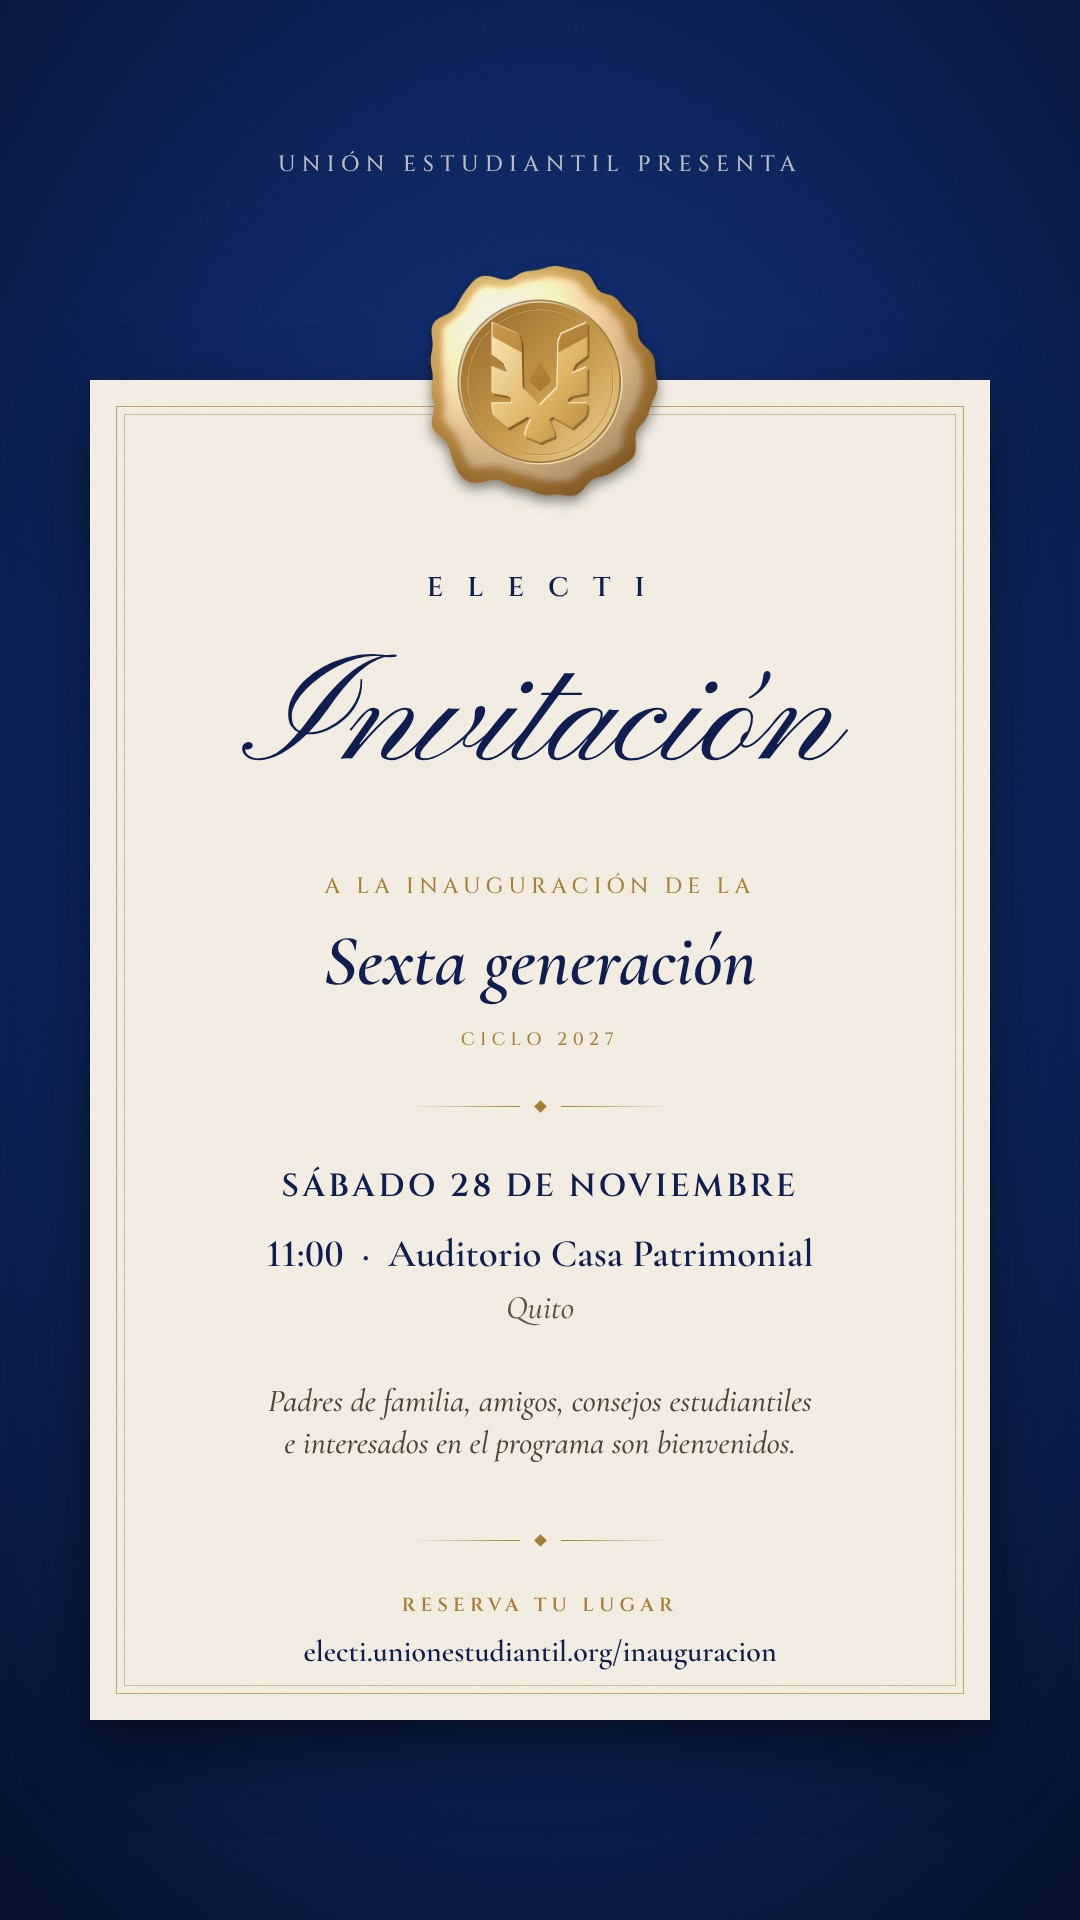
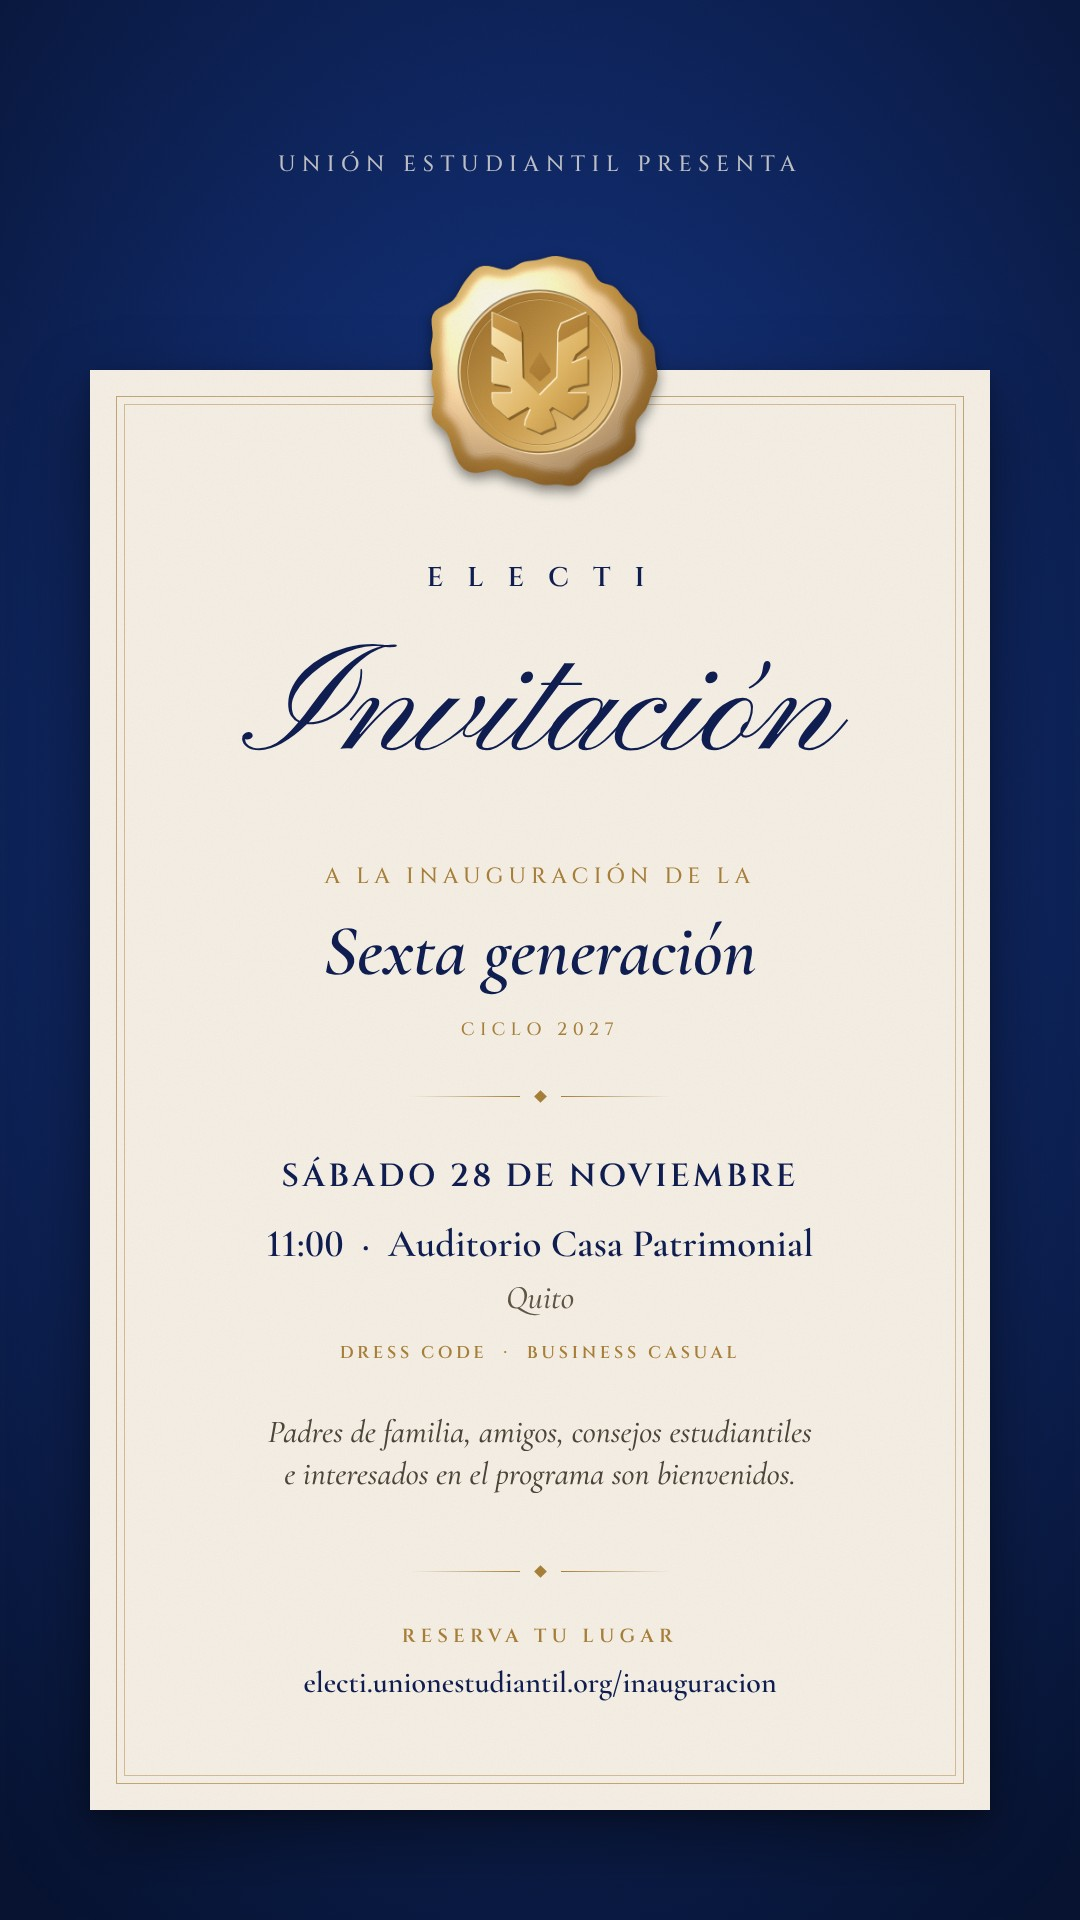
Inauguración: dress code business casual en invitación, página y correo
Claude-Session: https://claude.ai/code/session_01K9M6rJqN73thwacjQy3Wv7

diff --git a/inauguracion/index.html b/inauguracion/index.html
@@ -4,10 +4,10 @@
 <meta charset="UTF-8">
 <meta name="viewport" content="width=device-width, initial-scale=1.0">
 <title>Invitación · Inauguración de la 6.ª generación de ELECTI</title>
-<meta name="description" content="Sábado 28 de noviembre, 11:00, Auditorio Casa Patrimonial (Quito). Padres de familia, amigos, consejos estudiantiles e interesados son bienvenidos. Reserva tu lugar.">
+<meta name="description" content="Sábado 28 de noviembre, 11:00, Auditorio Casa Patrimonial (Quito). Dress code: business casual. Padres de familia, amigos, consejos estudiantiles e interesados son bienvenidos. Reserva tu lugar.">
 <meta name="robots" content="noindex, nofollow">
 <meta property="og:title" content="Tienes una invitación · Inauguración de ELECTI">
-<meta property="og:description" content="Sábado 28 de noviembre, 11:00, Auditorio Casa Patrimonial (Quito). Padres de familia, amigos, consejos estudiantiles e interesados son bienvenidos. Reserva tu lugar.">
+<meta property="og:description" content="Sábado 28 de noviembre, 11:00, Auditorio Casa Patrimonial (Quito). Dress code: business casual. Padres de familia, amigos, consejos estudiantiles e interesados son bienvenidos. Reserva tu lugar.">
 <meta property="og:type" content="website">
 <meta property="og:url" content="https://electi.unionestudiantil.org/inauguracion/">
 <meta property="og:image" content="https://electi.unionestudiantil.org/assets/inauguracion/compartir.jpg">
@@ -18,7 +18,7 @@
 <meta property="og:site_name" content="ELECTI">
 <meta name="twitter:card" content="summary_large_image">
 <meta name="twitter:title" content="Tienes una invitación · Inauguración de ELECTI">
-<meta name="twitter:description" content="Sábado 28 de noviembre, 11:00, Auditorio Casa Patrimonial (Quito). Padres de familia, amigos, consejos estudiantiles e interesados son bienvenidos. Reserva tu lugar.">
+<meta name="twitter:description" content="Sábado 28 de noviembre, 11:00, Auditorio Casa Patrimonial (Quito). Dress code: business casual. Padres de familia, amigos, consejos estudiantiles e interesados son bienvenidos. Reserva tu lugar.">
 <meta name="twitter:image" content="https://electi.unionestudiantil.org/assets/inauguracion/compartir.jpg">
 <link rel="canonical" href="https://electi.unionestudiantil.org/inauguracion/">
 <link rel="icon" type="image/jpeg" href="/assets/logo-electi.jpg">
@@ -329,6 +329,7 @@ html,body{background:#06122F}
       <p class="fecha">Sábado 28 de noviembre</p>
       <p class="lugar">11:00 · Auditorio Casa Patrimonial</p>
       <p class="ciudad">Quito</p>
+      <p class="k" style="margin-top:14px">Dress code · Business casual</p>
       <p class="bienv">Padres de familia, amigos, consejos estudiantiles e interesados en el programa son bienvenidos.</p>
       <a class="bajar" href="#rsvp">Reservar mi lugar</a>
     </article>
@@ -371,7 +372,7 @@ html,body{background:#06122F}
         <img class="sello-ok" src="/assets/inauguracion/sello.png" alt="" width="360" height="360" data-sin-webp>
         <h2 id="ok-tit">Tu lugar está confirmado</h2>
         <p id="ok-txt"></p>
-        <p>Te esperamos el sábado 28 de noviembre a las 11:00 en el Auditorio Casa Patrimonial.</p>
+        <p>Te esperamos el sábado 28 de noviembre a las 11:00 en el Auditorio Casa Patrimonial. Dress code: business casual.</p>
         <div class="acc">
           <a class="a1" id="ok-cal" target="_blank" rel="noopener">Agregar a mi calendario</a>
           <a class="a2" id="ok-wa" target="_blank" rel="noopener">Invitar a alguien</a>

diff --git a/src/paginas/inauguracion.html b/src/paginas/inauguracion.html
@@ -1,6 +1,6 @@
 <!--
 titulo: Invitación · Inauguración de la 6.ª generación de ELECTI
-descripcion: Sábado 28 de noviembre, 11:00, Auditorio Casa Patrimonial (Quito). Padres de familia, amigos, consejos estudiantiles e interesados son bienvenidos. Reserva tu lugar.
+descripcion: Sábado 28 de noviembre, 11:00, Auditorio Casa Patrimonial (Quito). Dress code: business casual. Padres de familia, amigos, consejos estudiantiles e interesados son bienvenidos. Reserva tu lugar.
 compartir: Tienes una invitación · Inauguración de ELECTI
 whatsapp: Hola, tengo una pregunta sobre la inauguración de ELECTI.
 ruta: /inauguracion/
@@ -146,6 +146,7 @@ html,body{background:#06122F}
       <p class="fecha">Sábado 28 de noviembre</p>
       <p class="lugar">11:00 · Auditorio Casa Patrimonial</p>
       <p class="ciudad">Quito</p>
+      <p class="k" style="margin-top:14px">Dress code · Business casual</p>
       <p class="bienv">Padres de familia, amigos, consejos estudiantiles e interesados en el programa son bienvenidos.</p>
       <a class="bajar" href="#rsvp">Reservar mi lugar</a>
     </article>
@@ -188,7 +189,7 @@ html,body{background:#06122F}
         <img class="sello-ok" src="/assets/inauguracion/sello.png" alt="" width="360" height="360" data-sin-webp>
         <h2 id="ok-tit">Tu lugar está confirmado</h2>
         <p id="ok-txt"></p>
-        <p>Te esperamos el sábado 28 de noviembre a las 11:00 en el Auditorio Casa Patrimonial.</p>
+        <p>Te esperamos el sábado 28 de noviembre a las 11:00 en el Auditorio Casa Patrimonial. Dress code: business casual.</p>
         <div class="acc">
           <a class="a1" id="ok-cal" target="_blank" rel="noopener">Agregar a mi calendario</a>
           <a class="a2" id="ok-wa" target="_blank" rel="noopener">Invitar a alguien</a>
